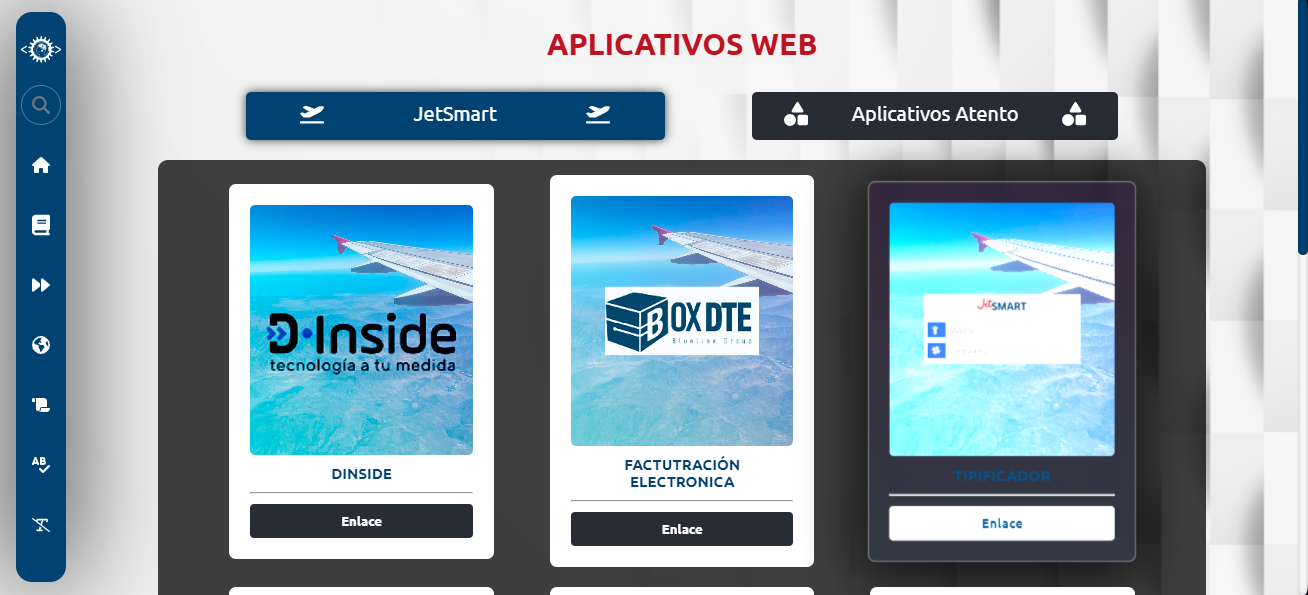
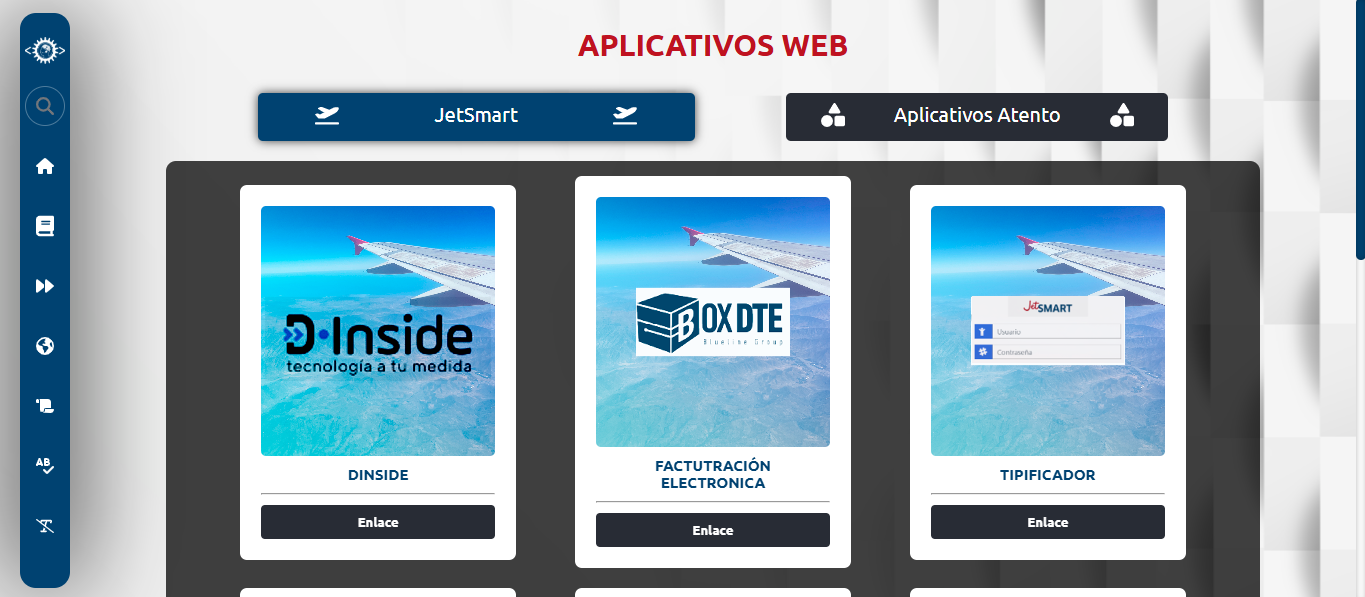
jetsmart ya

diff --git a/src/components/Estudios/Bases/JetSmart.jsx b/src/components/Estudios/Bases/JetSmart.jsx
@@ -4,18 +4,31 @@ import {
 import { VscGraph } from "react-icons/vsc";
 import { TbApps } from "react-icons/tb";
 import { FaList } from "react-icons/fa6";
+import { IoLibrary } from "react-icons/io5";
+import { FaGlobeAmericas } from "react-icons/fa";
+import { RxLetterSpacing } from "react-icons/rx";
 
 
-import cla1 from "../../../assets/imagenes/trabajos/ClaroTmk/cla1.png";
-import cla2 from "../../../assets/imagenes/trabajos/ClaroTmk/cla2.png";
-import cla3 from "../../../assets/imagenes/trabajos/ClaroTmk/cla3.png";
-import cla4 from "../../../assets/imagenes/trabajos/ClaroTmk/cla4.png";
-import cla5 from "../../../assets/imagenes/trabajos/ClaroTmk/cla5.png";
-import cla6 from "../../../assets/imagenes/trabajos/ClaroTmk/cla6.png";
-import cla7 from "../../../assets/imagenes/trabajos/ClaroTmk/cla7.png";
-import cla8 from "../../../assets/imagenes/trabajos/ClaroTmk/cla8.png";
+import jet1 from "../../../assets/imagenes/trabajos/JetSmart/jet1.png";
+import jet2 from "../../../assets/imagenes/trabajos/JetSmart/jet2.png";
+import jet3 from "../../../assets/imagenes/trabajos/JetSmart/jet3.png";
+import jet4 from "../../../assets/imagenes/trabajos/JetSmart/jet4.png";
+import jet5 from "../../../assets/imagenes/trabajos/JetSmart/jet5.png";
+import jet6 from "../../../assets/imagenes/trabajos/JetSmart/jet6.png";
+import jet7 from "../../../assets/imagenes/trabajos/JetSmart/jet7.png";
+import jet8 from "../../../assets/imagenes/trabajos/JetSmart/jet8.png";
+import jet9 from "../../../assets/imagenes/trabajos/JetSmart/jet16.png";
+import jet10 from "../../../assets/imagenes/trabajos/JetSmart/jet17.png";
+import jet11 from "../../../assets/imagenes/trabajos/JetSmart/jet9.png";
+import jet12 from "../../../assets/imagenes/trabajos/JetSmart/jet10.png";
+import jet13 from "../../../assets/imagenes/trabajos/JetSmart/jet11.png";
+import jet14 from "../../../assets/imagenes/trabajos/JetSmart/jet14.png";
+import jet15 from "../../../assets/imagenes/trabajos/JetSmart/jet15.png";
+import jet16 from "../../../assets/imagenes/trabajos/JetSmart/jet12.png";
+import jet17 from "../../../assets/imagenes/trabajos/JetSmart/jet13.png";
+import jet18 from "../../../assets/imagenes/trabajos/JetSmart/jet18.png";
 
-const images = [cla1, cla2, cla3, cla4, cla5, cla6, cla7, cla8];
+const images = [jet1, jet2, jet3, jet4, jet5, jet6, jet7, jet8, jet9, jet10, jet11, jet12, jet13, jet14, jet15, jet16, jet17, jet18];
 
 const JetSmart = {
   title: "Web Training JetSmart",
@@ -29,18 +42,26 @@ const JetSmart = {
     { name: "JavaScript", icon: "🟨" },
     { name: "WebPack", icon: "🚀" },
   ],
-  images: [images[0], images[2], images[4], images[5]],
+  images: [images[0], images[17], images[1], images[5], images[10], images[13]],
   projectIcon: "🛒",
   actionIcon: <FaExternalLinkAlt />,
   slideDescription:
-    "Se optimizó el sistema de gráficos para comparar distintas características entre dos celulares, logrando una visualización más clara e intuitiva que facilita la toma de decisiones.",
+    "Sistema de visualización de escenarios con herramientas clave para guiar a nuevos usuarios en la resolución de sus necesidades.",
   developments: [
     {
-      id: "versus",
-      name: "Versus Producto",
-      icon: <VscGraph />,
+      id: "scripts",
+      name: "Scripts",
+      icon: <FaList />,
       description:
-        "Usando Chart.js se crean graficas para comparar distintas características entre dos celulares, logrando una visualización más clara e intuitiva que facilita la toma de decisiones, donde se sobresalta la superioridad del producto.",
+        "La principal funcionalidad del sistema, puesto que se ven multiples casos de uso y se deben dar multiples opciones de solucion para resolver los problemas identificados. Los datos se suben por medio de excel y se guardan en el LocalBase y dependiendo la estructura de datos, el scripts sera diferente en el diseño.",
+      images: [images[12], images[15], images[16], images[17]],
+    },
+    {
+      id: "casos",
+      name: "Casos DINSIDE",
+      icon: <IoLibrary />,
+      description:
+        "Casos dividos por multiples casos donde se da la guia del proceso a seguir, contando con diferentes componentes y secciones tanto para resaltar como ajuntar imagenes ejemplo del caso.",
       images: [images[1], images[2], images[3]],
     },
     {
@@ -49,15 +70,31 @@ const JetSmart = {
       icon: <TbApps />,
       description:
         "Sistema a base JSON que contiene toda la informacion de los aplicativos referentes que necesita el cliente para tener un acceso directo y rapido.",
-      images: [images[7], images[4]],
+      images: [images[4], images[8], images[9]],
     },
     {
-      id: "argumentario",
-      name: "Argumentario TYT",
+      id: "ayudante",
+      name: "Ayudante de Comandos",
       icon: <FaList />,
       description:
-        "Sistema a base LOCALBASE en el cual se cargan los datos, se recorren y muestran todas las opciones posibles para los multiples casos, donde puedes tener una amplia variedad de respuestas.",
-      images: [images[5], images[6]],
+        "A base de los multiples atajos del sistema pues se busca generar una guia del actuar al digitar cualquiera de los comandos actuales que tenga el cliente.",
+      images: [images[5], images[6], images[7]],
+    },
+    {
+      id: "glosario",
+      name: "Glosario",
+      icon: <FaGlobeAmericas />,
+      description:
+        "Diferentes conjuntos de informacion como 'Opcionales', 'Abreviacion Moneda' entre otros, cada uno cuenta con sus propias palabras y significados. Este sistema a base LOCALBASE contiene toda la informacion de las palabras y su significado para el usuario.",
+      images: [images[10], images[11]],
+    },
+    {
+      id: "vocabulario",
+      name: "Vocabulario",
+      icon: <RxLetterSpacing />,
+      description:
+        "Cada empresa cuenta con sus propios terminos tecnicos para el uso de sus productos, servicios y procesos. Este sistema a base LOCALBASE contiene toda la informacion de los terminos y su significado para el usuario.",
+      images: [images[13], images[14]],
     },
   ],
 };
